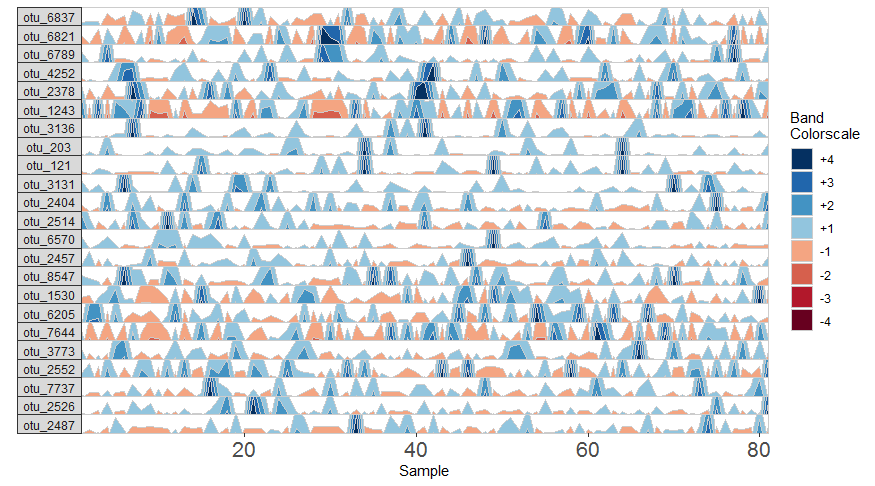
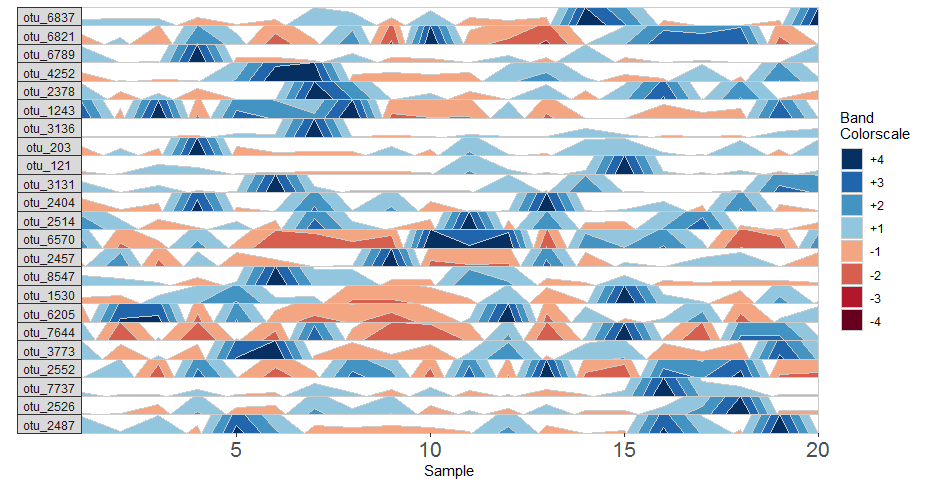
Simplify plots in 'Constructing the Horizon Plot'

diff --git a/index.md b/index.md
@@ -144,14 +144,14 @@ subj: subject_1
 `biomehorizonpkg_otu_stats` was outputted to the environment.
 ```
 
-Great. Now you should see in the console, the function selected several OTUs considered the most "significant". By default, this is done using four filtering standards.
+Great. Now you should see in the console, the function selected several OTUs considered the most "important". By default, this is done using four filtering standards.
 
-- **thresh_prevalence**: How many samples in this OTU contain at least one sample read?
-- **thresh_abundance**: Out of the samples that contain reads for this OTU, what was the average abundance of this OTU? i.e., what percentage of total sample reads are from this OTU?
+- **thresh_prevalence**: How many samples in this OTU contain at least one sample read that maps to this OTU?
+- **thresh_abundance**: Out of the samples that contain reads for this OTU, what was the average abundance of this OTU? i.e., what percentage of total reads in the sample are from this OTU?
 - **thresh_abundance_override**: The same measurement as *thresh_abundance*, but if this higher threshold is reached, it overrides all other standards and the OTU is included.
 - **thresh_NA**: This sets the maximum allowed percentage of samples with missing data (NA) for this OTU.
 
-Looking at "otu_4252", 65/81 samples have >=1 sample read, giving it a "prevalence score" of ~80.25%. Out of the 65 samples with at least one read, the average proportion of total reads is ~.0053, giving it an "abundance score" of ~0.53%. This meets the default standards of 80% prevalence and 0.5% abundance, so the OTU is included.
+As an example, *otu_4252* appears in 65/81 samples, giving it a "prevalence score" of ~80.25%. Out of the 65 samples with at least one read, the average proportion of total reads is ~.0053, giving it an "abundance score" of ~0.53%. This meets the default standards of 80% prevalence and 0.5% abundance, so the OTU is included.
 
 ```
 library(dplyr)
@@ -214,11 +214,13 @@ After refining the data with `prepanel`, we supply the parameter list to `horizo
 ```
 ## Basic plot using default filtering thresholds
 paramList <- prepanel(otudata = otusample, metadata = metadatasample, subj = "subject_1")
+paramList[[1]] <- paramList[[1]][,1:21]
 
 horizonplot(paramList)
 
 ## Select OTUs manually
 paramList <- prepanel(otudata = otusample, metadata = metadatasample, subj = "subject_1", otulist = c("otu_6837", "otu_6821", "otu_6789", "otu_4252", "otu_2378", "otu_1243", "otu_3136", "otu_203", "otu_121",  "otu_3131", "otu_2404", "otu_2514", "otu_6570", "otu_2457", "otu_8547", "otu_1530", "otu_6205", "otu_7644", "otu_3773", "otu_2552", "otu_7737", "otu_2526", "otu_2487"))
+paramList[[1]] <- paramList[[1]][,1:21]
 
 horizonplot(paramList)
 ```
